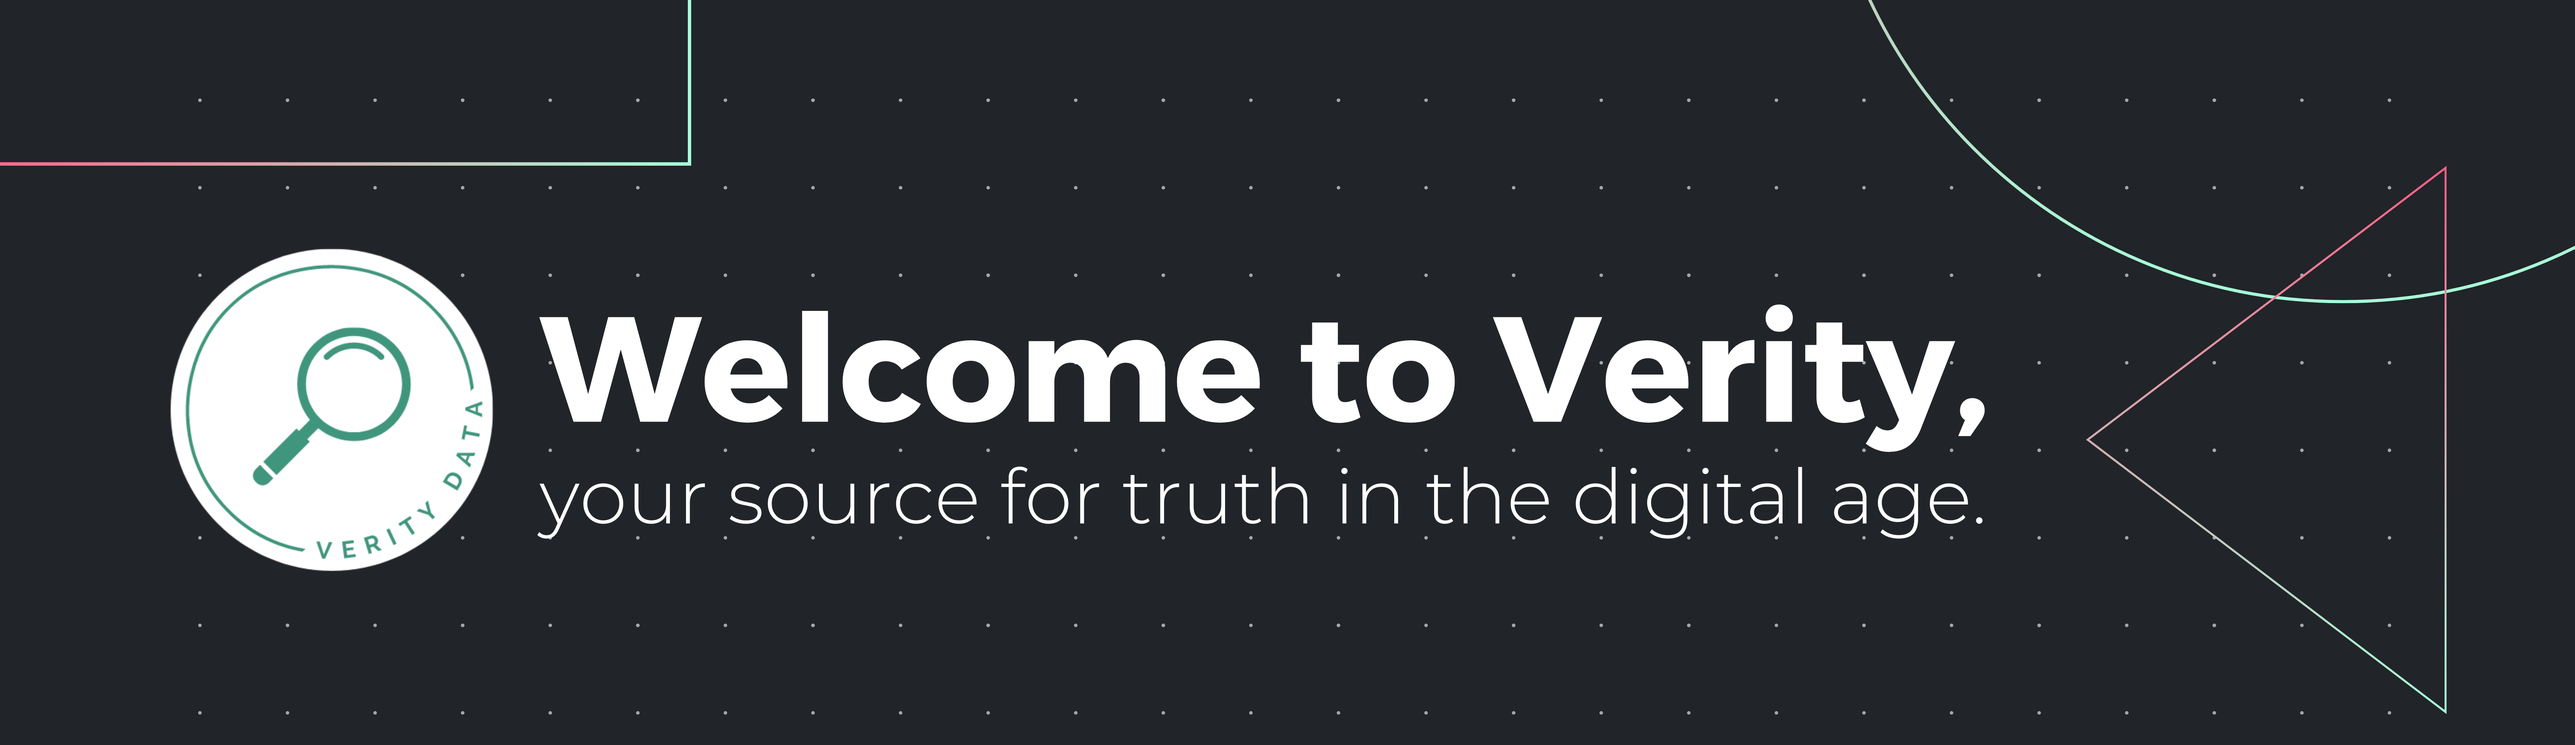
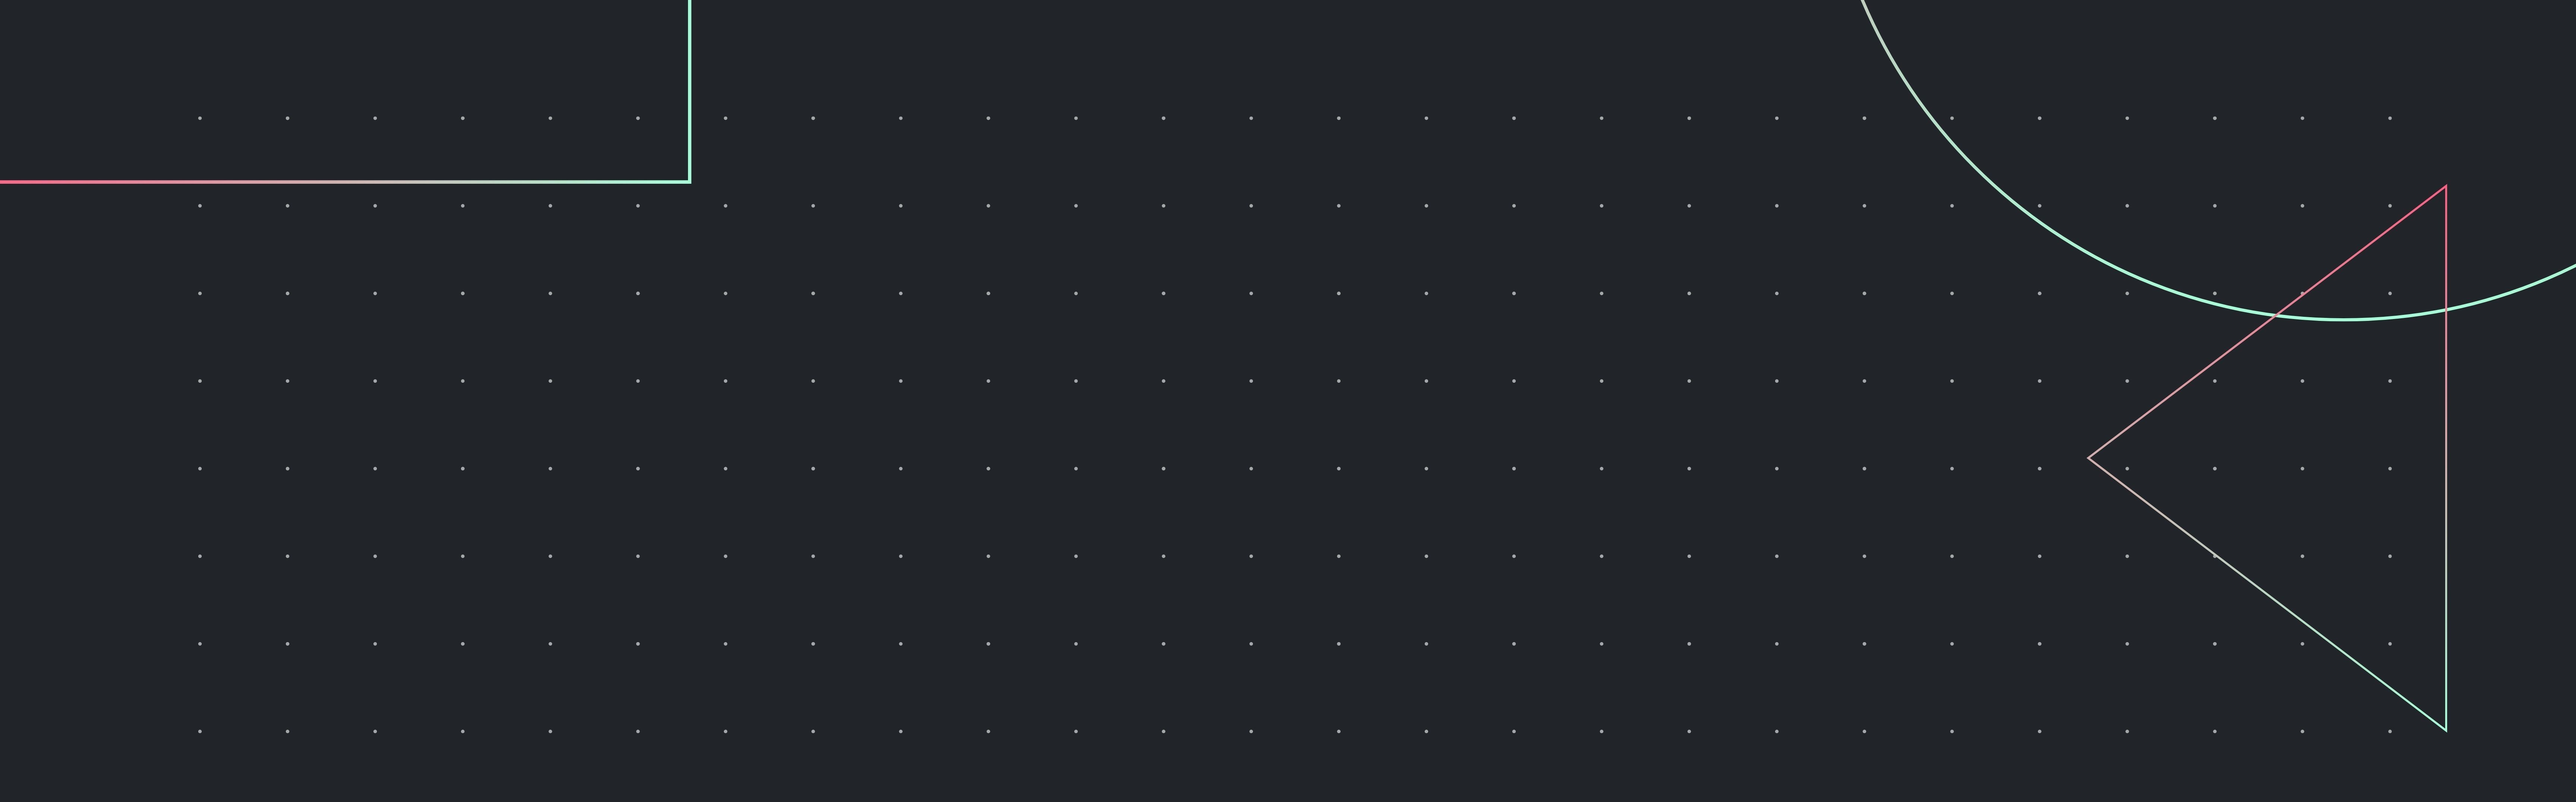
header update

diff --git a/index.html b/index.html
@@ -19,21 +19,33 @@
 				<ul class="container">
 					<li><a href="#home">Home</a></li>
 					<li><a href="#overview">Overview</a></li>
-					<li><a href="#data">Data Exploration</a></li>
+					<li><a href="#data">Data Collection</a></li>
 					<li><a href="#methods">Modeling</a></li>
 					<li><a href="#results">Results</a></li>
 					<li><a href="#team">Team</a></li>
 				</ul>
 			</nav>
-		
+
 		<!-- Header -->
-			<div class="header" id="home">
+		<div class="header" id="home">
+			<div class="container">
+			  <div class="header-content">
+				<div class="logo">
+				  <img src="assets/icon.png" alt="">
+				</div>
+				<div class="text-content">
+				  <h1><strong>Welcome to <span class="gradient">Verity</span>,</strong></h1>
+				  <p>your source for truth in the digital age.</p>
+				</div>
+			  </div>
 			</div>
+		  </div>
+		  
 
 		<!-- Home -->
 		<article id="top" class="wrapper style1" style="padding-top: 3rem; padding-bottom: 0.25rem;">
 			<div class="container medium">
-				<div class="paragraph-container">
+				<div class="paragraph-container fade-scroll delay-3s">
 					<p>In a world saturated with information, it can be challenging to separate fact from fiction.
 						At <stronk>Verity</stronk>, we are on a mission to <strong>combat the spread of mis/disinformation</strong> 
 						and empower individuals with the tools they need to make informed decisions.
@@ -64,8 +76,8 @@
 								<img src="images/risa2.jpg" class="image featured">
 								<h3>Problem</h3>
 								<p><g>The disinformation campaigns and falsehoods surrounding these controversies created a web of 
-									misinformation on social media that greatly shaped public opinion, despite being fact-checked by
-									trustworthy organizations.
+									misinformation on social media that greatly shaped public opinion, despite being fact-checked to
+									be false by trustworthy organizations.
 								</g></p>
 							</section>
 						</div>
@@ -94,29 +106,29 @@
 				<div class="container">
 					<div class="row aln-center">
 						<div class="col-4 col-6-medium col-12-small">
-							<section class="box style3">
-								<div class="paragraph-container">
+							<section class="box style3 fade-scroll">
+								<div class="paragraph-container fade-scroll">
 								<h3>Hypothesis</h3>
-									<p>The number of mis/disinformation tweets attributed to Risa Hontiveros' corruption allegations 
-										increased as the 2022 election came closer.</p>
+									<p>The amount of mis/disinformation tweets attributed to Risa Hontiveros significantly INCREASED 
+										as the 2022 elections came closer.</p>
 								</div>
 							</section>
 						</div>
 						<div class="col-4 col-6-medium col-12-small">
-							<section class="box style3">
-								<div class="paragraph-container">
+							<section class="box style3 fade-scroll delay-1s">
+								<div class="paragraph-container fade-scroll delay-1s">
 								<h3>Null Hypothesis</h3>
-									<p>The number of mis/disinformation tweets attributed to Risa Hontiveros' corruption allegations 
-										did not increase as the 2022 election came closer.</p>
+									<p>The amount of mis/disinformation tweets attributed to Risa Hontiveros is not significantly 
+										different between the election period & pre-election period.</p>
 								</div>
 							</section>
 						</div>
 						<div class="col-4 col-6-medium col-12-small">
-							<section class="box style3">
-								<div class="paragraph-container">
+							<section class="box style3 fade-scroll delay-2s">
+								<div class="paragraph-container fade-scroll delay-2s">
 								<h3>Action Plan</h3>
 									<p>Analyze the trends in increase/decrease of Twitter accounts that posted mis/disinformation about 
-										the corruption allegations</p>
+										the corruption allegations.</p>
 								</div>
 							</section>
 						</div>
@@ -125,10 +137,10 @@
 			</article>
 
 		<!-- Data -->
-			<article id="data" class="wrapper style1">
+			<article id="data" class="wrapper style3">
 				<div class="container">
 					<header>
-						<h2>We mined Twitter for fake news data.</h2>
+						<h2>We mined the internet for fake news data.</h2>
 						<p>We examined a total of <b>105 tweets</b> (posted from <b>2016 to 2022</b>) and what they entail.</p>
 					</header>
 					<div class="row">
@@ -213,7 +225,7 @@
 			</article>
 
 			<!-- Results -->
-			<article id="results" class="wrapper style3">
+			<article id="results" class="wrapper style1">
 				<div class="container">
 					<header>
 						<h2>Here's what we found out.</h2>
@@ -247,7 +259,7 @@
 				<div class="container medium">
 					<header>
 						<h2><sh>About Us</sh></h2>
-						<p><sh><stronk>Verity</stronk> is the result of the collaboration among three <strong>BS Computer 
+						<p><stronk>Verity</stronk><sh> is the result of the collaboration among three <strong>BS Computer 
 							Science undergraduates</strong> from the <strong>University of the Philippines 
 							Diliman</strong>. As part of our CS 132 (Data Science) course, we embarked on this project 
 							with a mission to uncover the truth and empower others with accurate information.</sh></p>
@@ -260,12 +272,11 @@
 							<section class="box style1">
 								<h3>Clarisse Bianca Bucu</h3>
 								<p><g>Hi! I'm Clarisse, a 2nd-year BS CS student and the web developer behind <stronk>Verity</stronk>!
-									With a background in digital art, I enjoy transforming ideas into reality & building visually 
-									appealing websites. Although I'm still learning, I approach every project with enthusiasm and a drive 
-									to deliver high-quality results. ♥
+									I enjoy transforming ideas into reality & building visually appealing websites. Although I'm still 
+									learning, I approach every project with enthusiasm and a drive to deliver high-quality results. ❤
 								</g></p>
 								<p><g>When I'm free, I like spending quality time with the people I love, playing relaxing 
-									games like Animal Crossing, or drawing to my heart's content. 
+									games like Animal Crossing, or creating digital art. 
 								</g></p>	
 								<p><g>I'm someone who's constantly expanding my knowledge & looking out for opportunities life has to 
 									offer. If you're interested in being one of those opportunities, I'd be excited to connect with you!
@@ -291,8 +302,8 @@
 									exercise.
 								</g></p>
 								<p>
-									<li style="list-style: none;"><a href="mailto:ccbucu@up.edu.ph" style="color: #40967C;">
-										<i class="fas fa-envelope"></i> <thicc>ccbucu@up.edu.ph</thicc></a></li>
+									<li style="list-style: none;"><a href="mailto:fqbueno@up.edu.ph" style="color: #40967C;">
+										<i class="fas fa-envelope"></i> <thicc>fqbueno@up.edu.ph</thicc></a></li>
 									<li style="list-style: none;"><a href="https://www.linkedin.com/in/clarisse-bianca-bucu-09311124b/" 
 										style="color: #40967C;"><i class="fab fa-linkedin"></i> <thicc>LinkedIn</thicc></a></li>
 								</p>
@@ -302,7 +313,7 @@
 							<span class="image fit"><img src="images/team3.jpg" alt="" /></span>
 							<section class="box style1">
 								<h3>James Adrian Perez</h3>
-								<p><g>Greetings! I'm Adrian, 3rd-year BS CS student and leader of the <stronk>Verity</stronk> team. 
+								<p><g>Greetings! I'm Adrian, 3rd-year BS CS student and data scientist/researcher of <stronk>Verity</stronk>. 
 									With a thirst for knowledge and a commitment to excellence, I diligently supervised 
 									the data collection process and meticulously vetted the results. My utmost priority was to 
 									provide you with accurate and reliable information.</g></p>
@@ -312,8 +323,8 @@
 								</g></p>
 								<p><g> Feel free to reach out if you have any questions or if there's anything I can assist you with!</g></p>
 								<p>
-									<li style="list-style: none;"><a href="mailto:ccbucu@up.edu.ph" style="color: #40967C;">
-										<i class="fas fa-envelope"></i> <thicc>ccbucu@up.edu.ph</thicc></a></li>
+									<li style="list-style: none;"><a href="mailto:jvperez@up.edu.ph" style="color: #40967C;">
+										<i class="fas fa-envelope"></i> <thicc>jvperez@up.edu.ph</thicc></a></li>
 									<li style="list-style: none;"><a href="https://www.linkedin.com/in/clarisse-bianca-bucu-09311124b/" 
 										style="color: #40967C;"><i class="fab fa-linkedin"></i> <thicc>LinkedIn</thicc></a></li>
 								</p>
@@ -323,9 +334,9 @@
 				</div>
 				<div class="container medium">
 					<footer>
-						<p><sh>Thank you for visiting <stronk>Verity</stronk>. Let's make a difference together.</sh></p>
+						<p><sh>Thank you for visiting </sh><stronk>Verity</stronk><sh>. Let's make a difference together.</sh></p>
 						<ul id="copyright">
-							<li>&copy; <sh>Untitled. All rights reserved.</li><li>Design: <a href="http://html5up.net">HTML5 UP</sh></a></li>
+							<li>&copy; <sh>Verity. All rights reserved.</li><li>Design: <a href="http://html5up.net">HTML5 UP</sh></a></li>
 						</ul>
 					</footer>
 				</div>

diff --git a/assets/css/main.css b/assets/css/main.css
@@ -35,14 +35,108 @@ body {
 }
 
 .header {
-    position: relative;
-    width: 100%;
-    height: 62vh;
-    background-image: url("images/home-bg.jpg");
-    background-size: contain;
-    background-repeat: no-repeat;
-    background-position: top center;
+	position: relative;
+	width: 100%;
+	height: 67vh;
+	background-image: url("images/home-bg.jpg");
+	background-size: contain;
+	background-repeat: no-repeat;
+	background-position: top center;
+	display: flex;
+	align-items: center;
+	padding-top: 30px;
+  }
+  
+  .header .container {
+	display: flex;
+	justify-content: center;
+	align-items: center;
+	margin-left: 0px;
+  }
+  
+  .header .header-content {
+	display: flex;
+	align-items: center;
+  }
+  
+  .header .logo {
+	height: 100%;
+	margin-right: 20px;
+  }
+  
+  .header .logo img {
+	height: 100%;
+	max-height: 230px; /* Adjust the max height as needed */
+	width: auto;
+	animation: flipLogo 6s infinite;
+  	transform-style: preserve-3d;
+  }
+  
+  .header .text-content {
+	display: flex;
+	flex-direction: column;
+	animation: panInLeft 1s forwards;
+	animation-delay: 0.5s;
+  	opacity: 0;
+  	transform: translateX(-100%);
+  }
+  
+  .header .text-content h1 {
+	font-size: 80px; /* Adjust the font size as needed */
+	margin: 0;
+	margin-bottom: 37px;
+  }
+  
+  .header .text-content p {
+	font-size: 41px; /* Adjust the font size as needed */
+	margin: 0;
+  }
+
+.fade-in {
+	animation: fadeIn 1s ease-in-out forwards;
 }
+
+.delay-1s {
+	animation-delay: 0.5s;
+}
+  
+.delay-2s {
+	animation-delay: 1s;
+}
+
+.delay-3s {
+	animation-delay: 1.5s;
+}
+
+.gradient {
+	background: linear-gradient(to right, #4fd49a, #3a8b73);
+	-webkit-background-clip: text;
+	-webkit-text-fill-color: transparent;
+	position: relative;
+}
+
+@keyframes panInLeft {
+	0% {
+	  opacity: 0;
+	  transform: translateX(-30%);
+	}
+	100% {
+	  opacity: 1;
+	  transform: translateX(0);
+	}
+}
+
+@keyframes flipLogo {
+	0%, 75% {
+	  transform: perspective(800px) rotateY(0deg);
+	}
+	80% {
+	  transform: perspective(800px) rotateY(180deg);
+	}
+	85%, 100% {
+	  transform: perspective(800px) rotateY(360deg);
+	}
+  }
 
 @keyframes fadeIn {
     from {
@@ -55,15 +149,8 @@ body {
     }
 }
 
-@keyframes colorChange {
-    0% { color: #507264; }
-    50% { color: #4fd49a; }
-    100% { color: #507264; }
-}
-
 .paragraph-container {
-	opacity: 0;
-    animation: fadeIn 1s ease-in-out forwards;
+	opacity: 0; 
     position: relative;
 }
 
@@ -201,8 +288,11 @@ input, select, textarea {
 	}
 
 	stronk {
-		font-weight: 601;
-		animation: colorChange 3s infinite;
+		font-weight: 602;
+		background: linear-gradient(to right, #48c790, #40967C);
+		-webkit-background-clip: text;
+		-webkit-text-fill-color: transparent;
+		position: relative;
 	}
 
 	i, em {
@@ -2026,6 +2116,7 @@ input, select, textarea {
 
 		.box.style3 {
 			background: #33393F;
+			opacity: 0; 
 			text-align: left;
 			padding: 0.5em 2em 0.25em 2em;
 		}
@@ -2105,8 +2196,10 @@ input, select, textarea {
 		}
 
 		.wrapper.style3 {
+			background-image: url("images/plainbg-light.png");
+			background-size: contain;
+    		background-position: top center;
 			background-color: #585C5F;
-			text-shadow: 1px 1px 0px #fff;
 		}
 
 		.wrapper.style4 {

diff --git a/assets/js/main.js b/assets/js/main.js
@@ -4,6 +4,28 @@
 	Free for personal and commercial use under the CCA 3.0 license (html5up.net/license)
 */
 
+const fadeElements = document.querySelectorAll('.fade-scroll');
+
+const fadeInOptions = {
+  root: null,
+  rootMargin: '0px',
+  threshold: 0.3, // Adjust this value to control the fade-in point
+};
+
+const fadeObserver = new IntersectionObserver((entries, observer) => {
+  entries.forEach((entry) => {
+    if (entry.isIntersecting) {
+      entry.target.classList.add('fade-in');
+      observer.unobserve(entry.target);
+    }
+  });
+}, fadeInOptions);
+
+fadeElements.forEach((element) => {
+  fadeObserver.observe(element);
+});
+
+
 (function($) {
 
 	var	$window = $(window),
